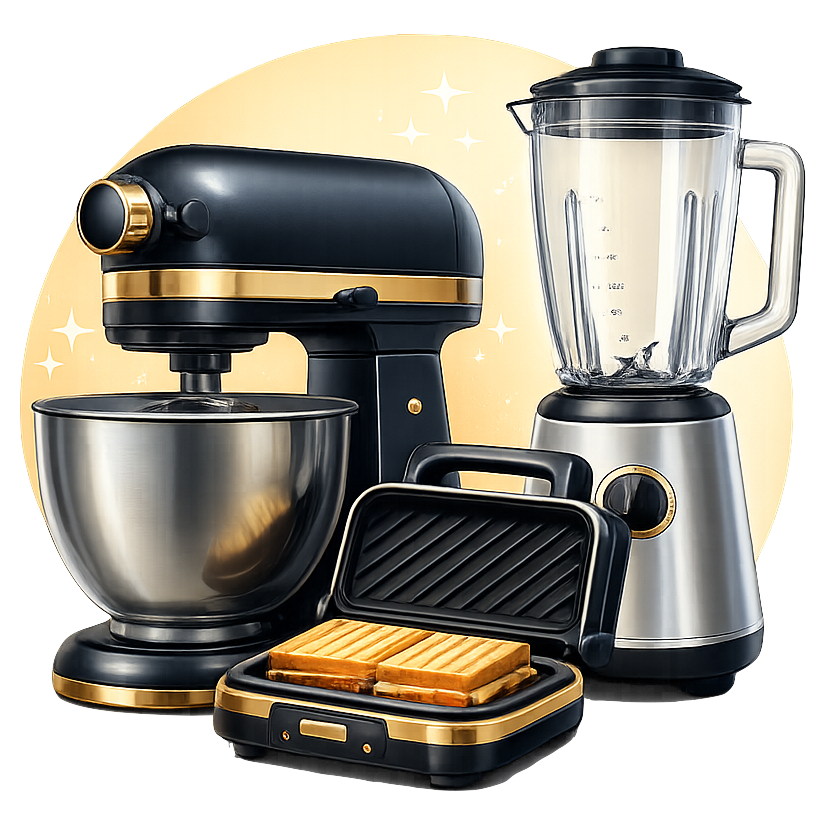
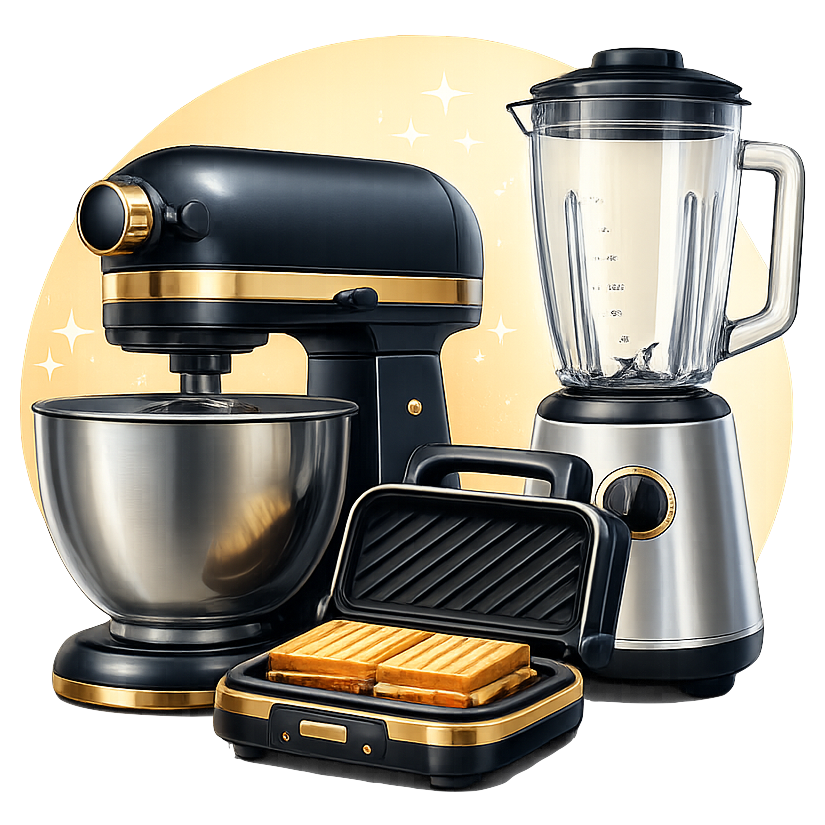
fix: tarjetas homepage visibles (reveal overflow bug)

diff --git a/js/catalog.js b/js/catalog.js
@@ -870,9 +870,29 @@ function initProductPage() {
   initScrollAnimations();
 }
 function initHomeFeatured() {
+<<<<<<< Updated upstream
   const featuredGrid=$('#featured-grid'); if(!featuredGrid) return;
   const featured=PRODUCTS_DATA.filter(p=>p.featured).slice(0,8); featuredGrid.innerHTML=featured.map(productCardHTML).join('');
   const newGrid=$('#new-grid'); if(newGrid){const newProducts=PRODUCTS_DATA.filter(p=>p.isNew).slice(0,4);newGrid.innerHTML=newProducts.map(productCardHTML).join('');}
+=======
+  const featuredGrid = $('#featured-grid'); if (!featuredGrid) return;
+  const isMobile = window.innerWidth <= 768;
+  const featured = PRODUCTS_DATA.filter(p => p.featured).slice(0, 8);
+  const newProducts = PRODUCTS_DATA.filter(p => p.isNew).slice(0, 8);
+
+  // Desktop Y Mobile: grid simple, sin carrusel
+  initDesktopGrid(featuredGrid, featured, false);
+  const newGrid = $('#new-grid');
+  if (newGrid) initDesktopGrid(newGrid, newProducts, true);
+
+  // Forzar visibilidad inmediata en las tarjetas del homepage
+  // (el overflow-y:hidden del carrusel interfiere con IntersectionObserver)
+  requestAnimationFrame(() => {
+    featuredGrid.querySelectorAll('.reveal').forEach(el => el.classList.add('visible'));
+    if (newGrid) newGrid.querySelectorAll('.reveal').forEach(el => el.classList.add('visible'));
+  });
+
+>>>>>>> Stashed changes
   initScrollAnimations();
 }
 document.addEventListener('DOMContentLoaded',()=>{ initCatalogPage(); initProductPage(); initHomeFeatured(); });